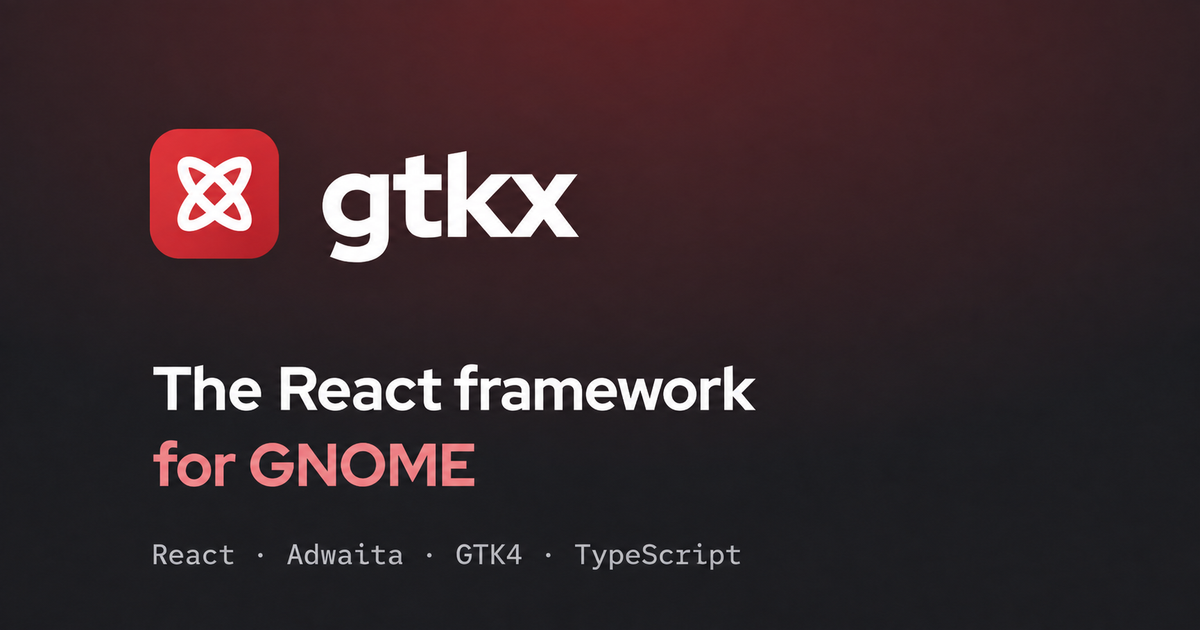
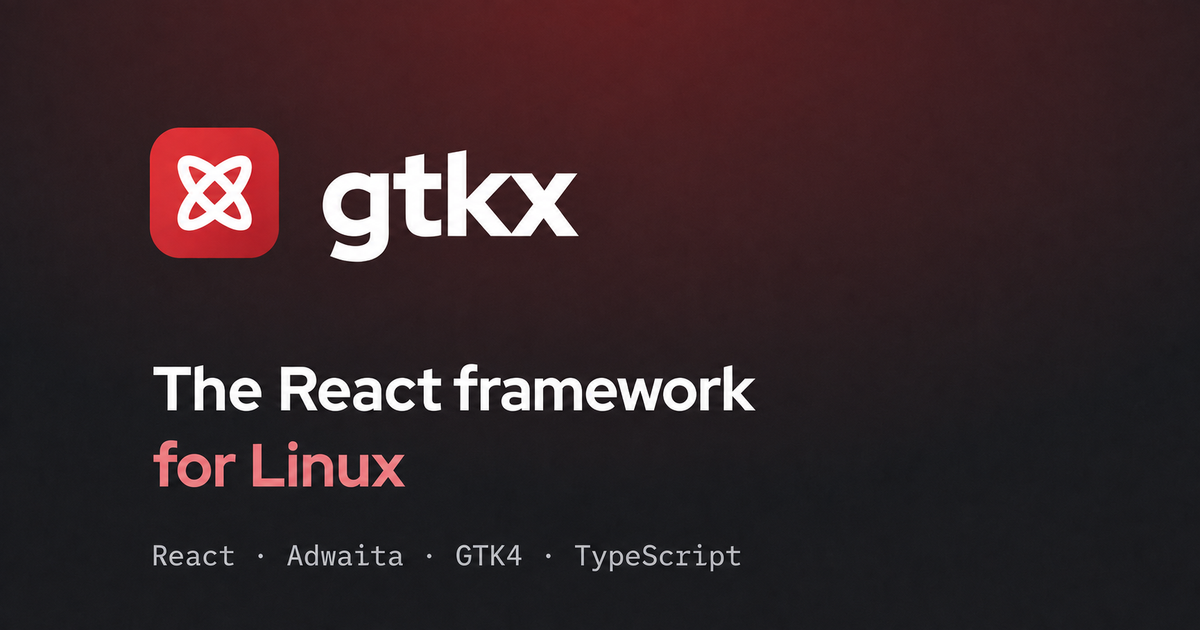
Keep Linux brand slogan

diff --git a/website/.vitepress/theme/landing/Hero.vue b/website/.vitepress/theme/landing/Hero.vue
@@ -15,7 +15,7 @@ const cmd = "npm create gtkx";
       <div class="hero__col">
         <p class="overline hero__eyebrow">// React · Node · TypeScript · libadwaita · GTK4</p>
         <h1 class="hero__title">
-          The React framework for <span class="gtkx-gradient-text">GNOME</span>
+          The React framework for <span class="gtkx-gradient-text">Linux</span>
         </h1>
         <p class="hero__lede">
           Build native GNOME applications with React and TypeScript.

diff --git a/website/.vitepress/theme/landing/Footer.vue b/website/.vitepress/theme/landing/Footer.vue
@@ -56,7 +56,7 @@ const cols: { h: string; items: Link[] }[] = [
             <span class="footer__word">GTKX</span>
           </div>
           <p class="footer__tag">
-            The Adwaita-first React framework for GNOME. Free &amp; open source.
+            The React framework for Linux. Free &amp; open source.
           </p>
         </div>
         <div v-for="c in cols" :key="c.h" class="footer__col">

diff --git a/README.md b/README.md
@@ -5,7 +5,7 @@
 <h1 align="center">GTKX</h1>
 
 <p align="center">
-  The Adwaita-first React framework for GNOME.<br />
+  The React framework for Linux.<br />
   Write native GNOME applications with React and TypeScript.
   Real Adwaita and GTK4 widgets with standard web tooling.
 </p>

diff --git a/website/guide/why-gtkx.md b/website/guide/why-gtkx.md
@@ -1,6 +1,6 @@
 ---
 title: "Why GTKX"
-description: "Why GTKX is an Adwaita-first React framework for GNOME, and why it runs on Node.js."
+description: "Why GTKX is the React framework for Linux, why it is Adwaita-first, and why it runs on Node.js."
 ---
 
 # Why GTKX

diff --git a/website/v2/guide/why-gtkx.md b/website/v2/guide/why-gtkx.md
@@ -1,6 +1,6 @@
 ---
 title: "Why GTKX"
-description: "Why GTKX is an Adwaita-first React framework for GNOME, and why it runs on Node.js."
+description: "Why GTKX is the React framework for Linux, why it is Adwaita-first, and why it runs on Node.js."
 ---
 
 # Why GTKX

diff --git a/website/blog/index.md b/website/blog/index.md
@@ -1,6 +1,6 @@
 ---
 title: Blog
-description: Announcements and release notes from GTKX, the Adwaita-first React framework for GNOME.
+description: Announcements and release notes from GTKX, the React framework for Linux, built on Adwaita.
 ---
 
 # Blog

diff --git a/website/index.md b/website/index.md
@@ -1,5 +1,5 @@
 ---
-title: "GTKX: The React framework for GNOME"
+title: "GTKX: The React framework for Linux"
 titleTemplate: false
 description: Build native GNOME apps with React and TypeScript on an Adwaita-first foundation.
 pageClass: landing-page
